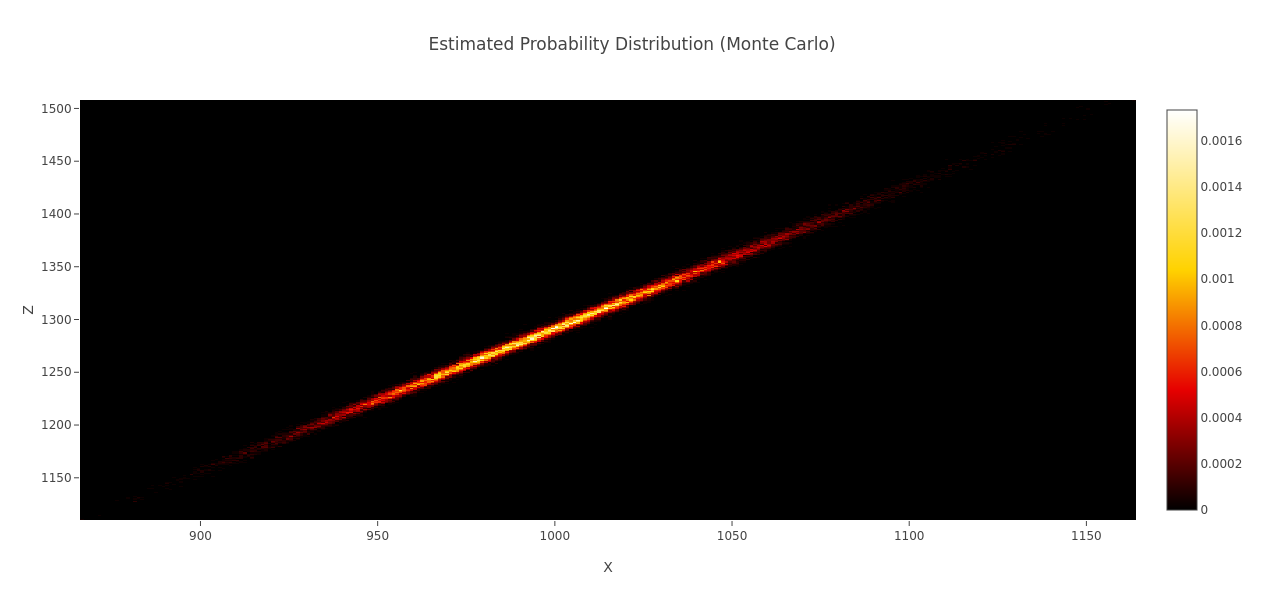
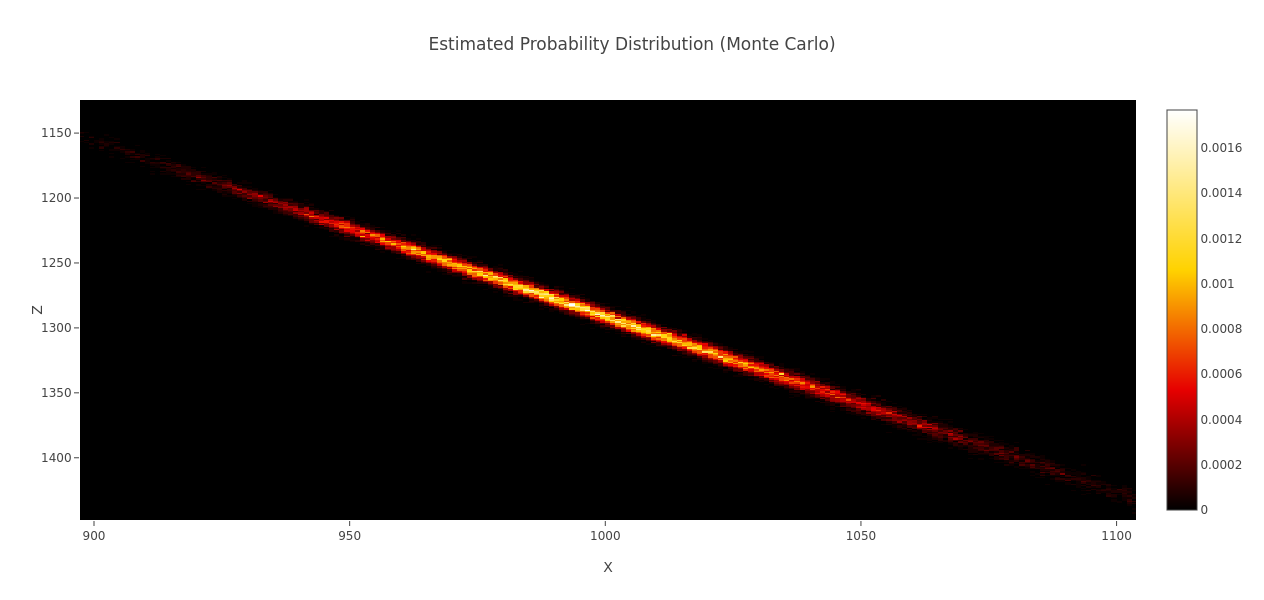
reverse z axis

diff --git a/src/code.js b/src/code.js
@@ -138,7 +138,10 @@ function runMonteCarlo(x1_mean, z1_mean, theta1_mean, x2_mean, z2_mean, theta2_m
     const layout = {
       title: 'Estimated Probability Distribution (Monte Carlo)',
       xaxis: { title: 'X' },
-      yaxis: { title: 'Z' },
+      yaxis: {
+        title: 'Z',
+        autorange: "reversed"
+       },
       height: 600
     };
   
